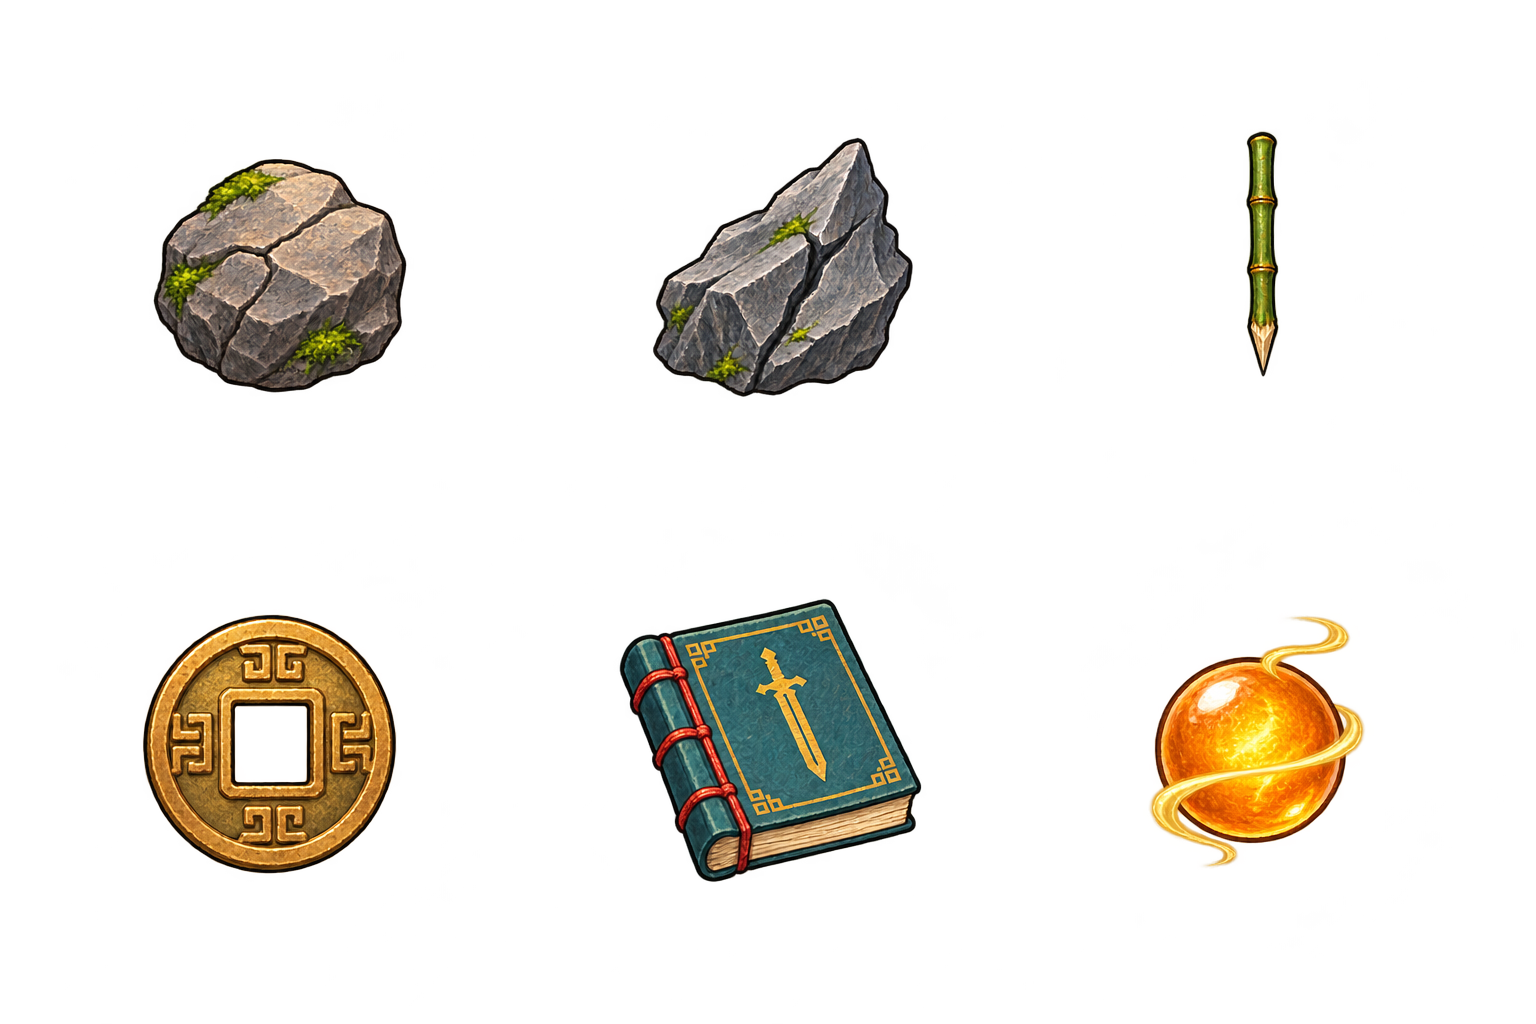
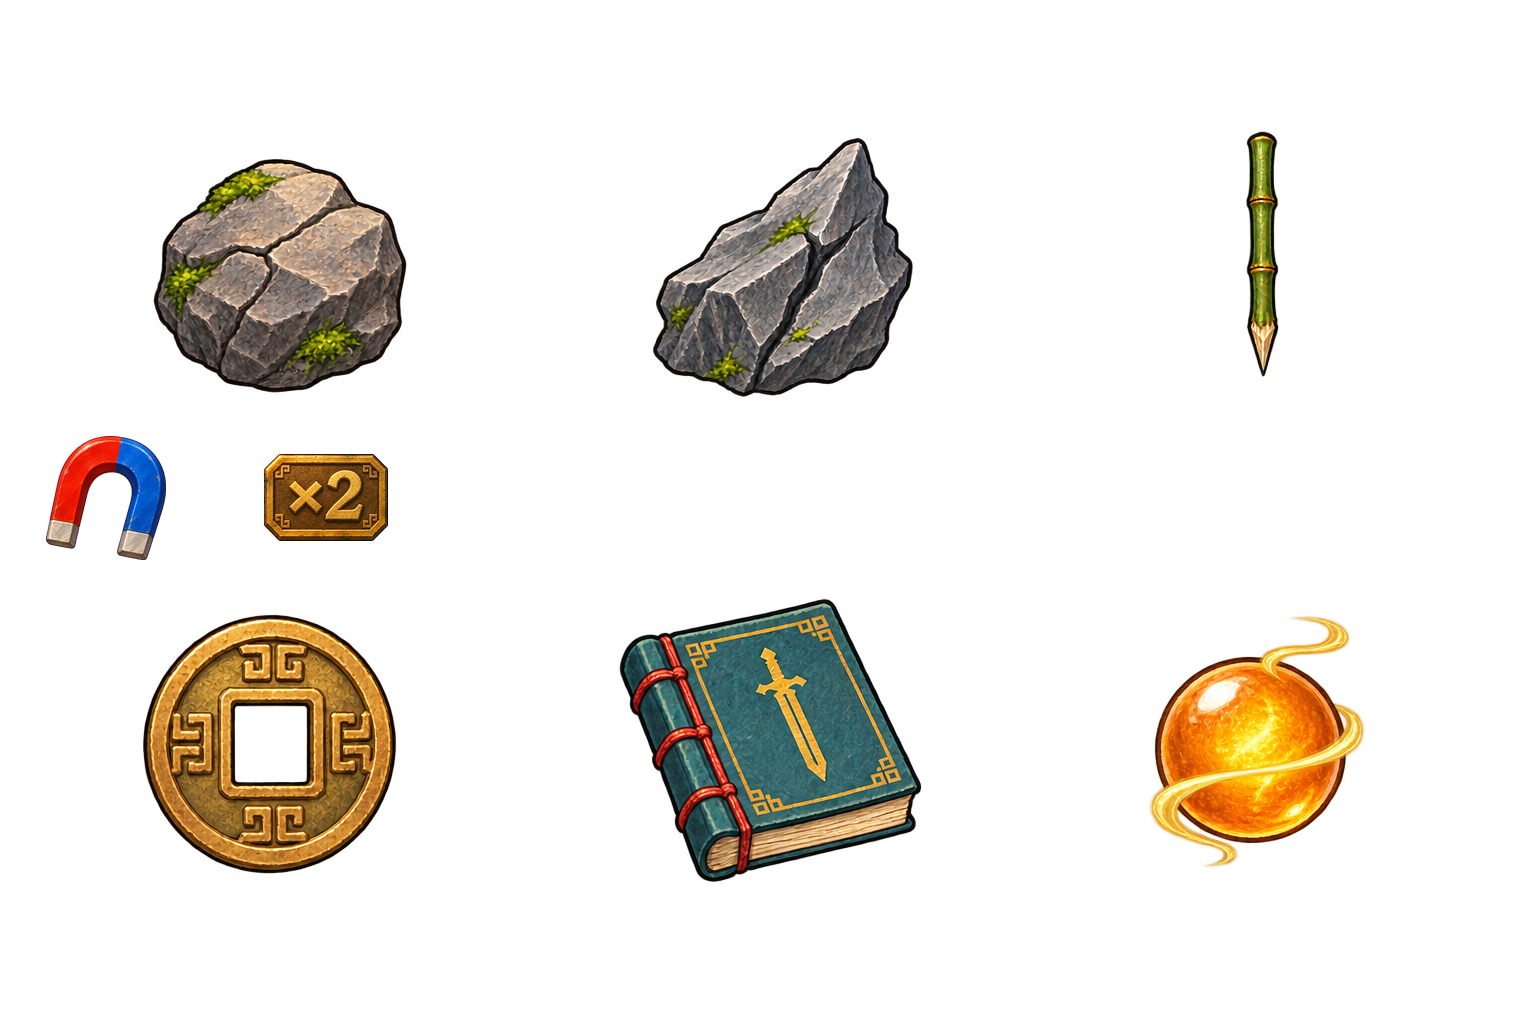
[Codex] 자석·점수 두 배 드롭 아이콘 적용 (#31)
Use dedicated artwork for the magnet and double-score drops.

Agent: Codex

Changed region(s): [[0.0312, 0.4062, 0.125, 0.5625], [0.1562, 0.4375, 0.25, 0.5312]]

diff --git a/src/render/projectiles.ts b/src/render/projectiles.ts
@@ -81,14 +81,13 @@ export function drawMartialHazard(h) {
 }
 
 const ITEM_TINT = {
-  magnet: { line: '#8fe3b0', fill: '#10322adc', glyph: '磁' },
-  double: { line: '#ffd36e', fill: '#3a2a08dc', glyph: '倍' },
+  magnet: { line: '#8fe3b0', fill: '#10322adc', art: 6 },
+  double: { line: '#ffd36e', fill: '#3a2a08dc', art: 7 },
 };
 export function drawPickup(p) {
   ctx.save();
   ctx.translate(p.x, p.y);
   const coin = p.kind === 'coin',
-    // 자석 and 점수 두 배 are drawn with a placeholder glyph until their own art comes (Codex hand-off)
     tint = ITEM_TINT[p.kind],
     // it springs out of the kill (small to full in 0.15 s) and leans with its throw
     grow = Math.min(1, 0.55 + (10 - p.life) * 3),
@@ -117,11 +116,7 @@ export function drawPickup(p) {
     drawVfxSprite(propArt[3], 0, 0, 30, 30);
   } else if (tint) {
     ctx.rotate(lean + Math.sin(G.time * 3 + p.phase) * 0.08);
-    ctx.fillStyle = tint.line;
-    ctx.font = 'bold 36px serif';
-    ctx.textAlign = 'center';
-    ctx.textBaseline = 'middle';
-    ctx.fillText(tint.glyph, 0, 2);
+    drawVfxSprite(propArt[tint.art], 0, 0, 56, 56);
   } else {
     ctx.rotate(lean + Math.sin(G.time * 3 + p.phase) * 0.08);
     drawVfxSprite(propArt[5], 0, 0, 58, 58);

diff --git a/src/core/assets.ts b/src/core/assets.ts
@@ -30,6 +30,8 @@ export async function loadPortraitProps() {
     [125, 595, 285, 295],
     [610, 575, 325, 325],
     [1120, 590, 285, 305],
+    [40, 432, 132, 132], // magnet
+    [260, 432, 132, 132], // double score
   ];
   rects.forEach(r => propArt.push(cropProp(props, r, imageDimensions['props.webp'].source)));
   for (let i = 0; i < 2; i++) {

diff --git a/docs/combat-stats.md b/docs/combat-stats.md
@@ -48,7 +48,7 @@
   - 무아지경 처치는 연속 처치·근접 처치·스침 의뢰를 1씩 올린다. 한 줄 전멸은 그대로 세고, 좌우 전환은 직접 움직여야 한다.
   - 자석: 10초. 다시 먹으면 남은 시간을 10초로 채운다(쌓이지 않음).
   - 점수 두 배: 10초 동안 얻는 점수(처치, 한 줄 전멸, 엽전, 달린 거리)가 2배. 다시 먹으면 10초로 채운다. 돌파 보너스(20,000)는 두 배가 아니다.
-  - 자석·점수 두 배 그림은 임시(글자 磁·倍). 정식 그림은 Codex 작업.
+  - 드롭 아이콘은 자석이 빨강·파랑 말굽자석, 점수 두 배가 ×2를 새긴 금속 패다.
 
 ## 점수와 정산
 
